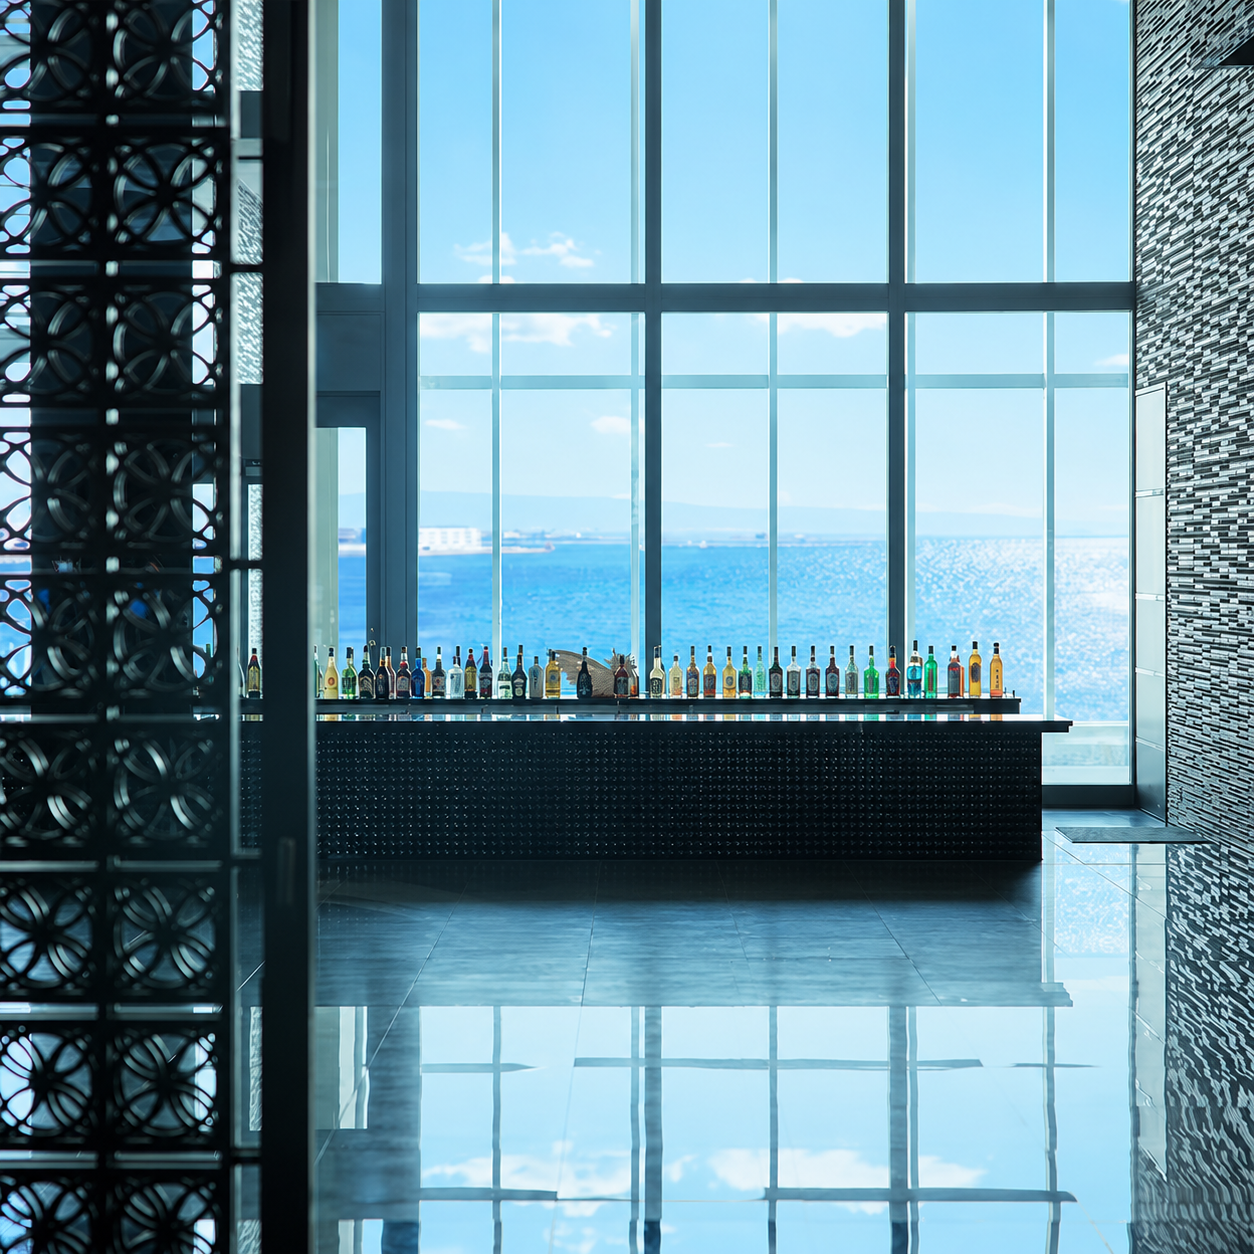
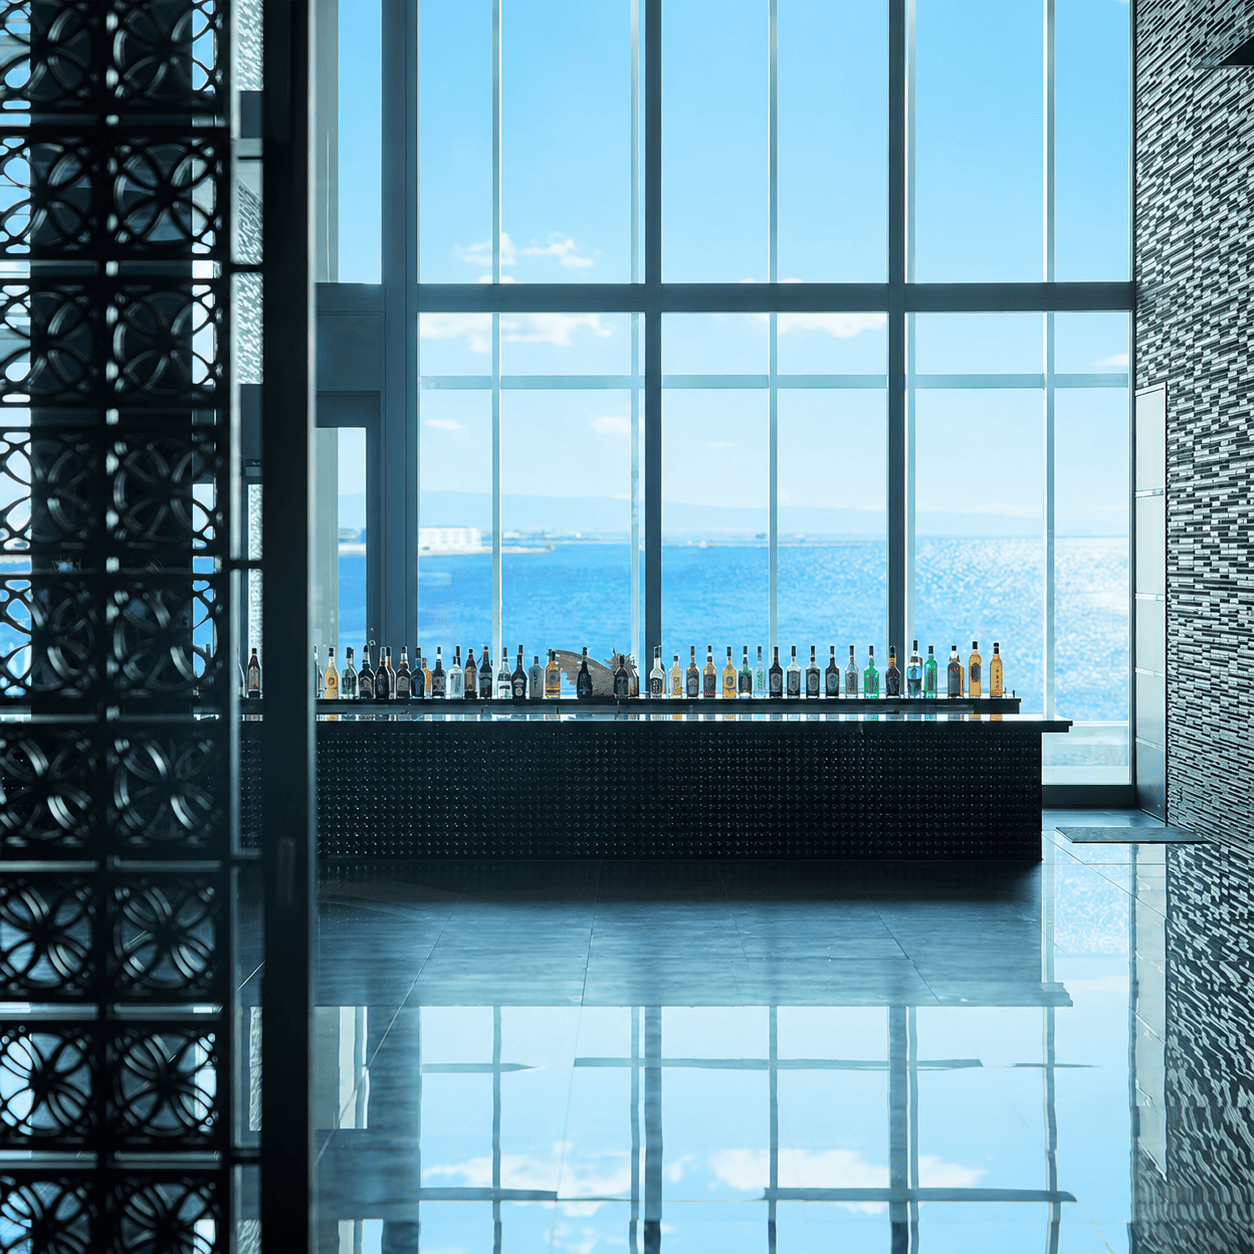
add searchAddress

diff --git a/rsvp.html b/rsvp.html
@@ -14,7 +14,7 @@
     </head>
 
     <body>
-        <form id="rsvpForm">
+        <form id="rsvpForm"  class="h-adr">
             <section class="rsvp">
                 
                 <a href="index.html" id="backLink" class="back-link">
@@ -81,55 +81,33 @@
                     <option>Other</option>
                 </select>
                 
-                <label>住まい</label>
-                <select name="address">
-                    <option>大阪府</option>
-                    <option>愛知県</option>
-                    <option>東京都</option>
-                    <option>北海道</option>
-                    <option>青森県</option>
-                    <option>岩手県</option>
-                    <option>宮城県</option>
-                    <option>秋田県</option>
-                    <option>山形県</option>
-                    <option>福島県</option>
-                    <option>茨城県</option>
-                    <option>栃木県</option>
-                    <option>群馬県</option>
-                    <option>千葉県</option>
-                    <option>神奈川県</option>
-                    <option>新潟県</option>
-                    <option>富山県</option>
-                    <option>石川県</option>
-                    <option>福井県</option>
-                    <option>山梨県</option>
-                    <option>長野県</option>
-                    <option>岐阜県</option>
-                    <option>静岡県</option>
-                    <option>三重県</option>
-                    <option>滋賀県</option>
-                    <option>京都府</option>
-                    <option>兵庫県</option>
-                    <option>奈良県</option>
-                    <option>和歌山県</option>
-                    <option>鳥取県</option>
-                    <option>島根県</option>
-                    <option>岡山県</option>
-                    <option>広島県</option>
-                    <option>山口県</option>
-                    <option>徳島県</option>
-                    <option>香川県</option>
-                    <option>愛媛県</option>
-                    <option>高知県</option>
-                    <option>福岡県</option>
-                    <option>佐賀県</option>
-                    <option>長崎県</option>
-                    <option>熊本県</option>
-                    <option>大分県</option>
-                    <option>宮崎県</option>
-                    <option>鹿児島県</option>
-                    <option>沖縄県</option>
-                </select>
+                <span class="p-country-name" style="display:none;">Japan</span>
+                <label>郵便番号</label>
+                <div class="postal-row">
+                    <input
+                        type="text"
+                        id="postalCode"
+                        placeholder="650-0046">
+
+                    <button type="button" id="searchAddress"  class="search-btn">
+                        住所検索
+                    </button>
+                </div>
+
+                
+                <label>住所（都道府県・市区町村）</label>
+                <input
+                    type="text"
+                    id="address"
+                    name="address"
+                    placeholder="住所">
+
+                <label>住所（番地以降）</label>
+                <input
+                    type="text"
+                    id="building"
+                    name="building"
+                    placeholder="建物名">
 
 
                 <label>アレルギー</label>
@@ -155,55 +133,33 @@
                     <label>同伴者アレルギー</label>
                     <textarea rows="3" name="compAllergy"></textarea>
 
-                    <label>住まい</label>
-                    <select name="compAddress">
-                        <option>大阪府</option>
-                        <option>愛知県</option>
-                        <option>東京都</option>
-                        <option>北海道</option>
-                        <option>青森県</option>
-                        <option>岩手県</option>
-                        <option>宮城県</option>
-                        <option>秋田県</option>
-                        <option>山形県</option>
-                        <option>福島県</option>
-                        <option>茨城県</option>
-                        <option>栃木県</option>
-                        <option>群馬県</option>
-                        <option>千葉県</option>
-                        <option>神奈川県</option>
-                        <option>新潟県</option>
-                        <option>富山県</option>
-                        <option>石川県</option>
-                        <option>福井県</option>
-                        <option>山梨県</option>
-                        <option>長野県</option>
-                        <option>岐阜県</option>
-                        <option>静岡県</option>
-                        <option>三重県</option>
-                        <option>滋賀県</option>
-                        <option>京都府</option>
-                        <option>兵庫県</option>
-                        <option>奈良県</option>
-                        <option>和歌山県</option>
-                        <option>鳥取県</option>
-                        <option>島根県</option>
-                        <option>岡山県</option>
-                        <option>広島県</option>
-                        <option>山口県</option>
-                        <option>徳島県</option>
-                        <option>香川県</option>
-                        <option>愛媛県</option>
-                        <option>高知県</option>
-                        <option>福岡県</option>
-                        <option>佐賀県</option>
-                        <option>長崎県</option>
-                        <option>熊本県</option>
-                        <option>大分県</option>
-                        <option>宮崎県</option>
-                        <option>鹿児島県</option>
-                        <option>沖縄県</option>
-                    </select>
+                    <span class="p-country-name" style="display:none;">Japan</span>
+                    <label>郵便番号</label>
+                    <div class="postal-row">
+                        <input
+                            type="text"
+                            id="compPostalCode"
+                            placeholder="650-0046">
+
+                        <button type="button" id="compSearchAddress"  class="search-btn">
+                            住所検索
+                        </button>
+                    </div>
+
+                    
+                    <label>住所（都道府県・市区町村）</label>
+                    <input
+                        type="text"
+                        id="compAddress"
+                        name="address"
+                        placeholder="住所">
+
+                    <label>住所（番地以降）</label>
+                    <input
+                        type="text"
+                        id="compBuilding"
+                        name="building"
+                        placeholder="建物名">
                 </div>
 
                 <label>備考</label>
@@ -213,7 +169,7 @@
                 <textarea rows="5" name="Message"></textarea>
 
                 
-                <button type="submit" id="submitButton">
+                <button type="submit" id="submitButton" class="submit-btn">
                     回答する
                 </button>
 

diff --git a/js/rsvp.js b/js/rsvp.js
@@ -53,3 +53,58 @@ backLink.addEventListener("click", (e) => {
         e.preventDefault();
     }
 });
+
+
+
+//郵便番号検索
+const searchButton = document.getElementById("searchAddress");
+const compSearchButton = document.getElementById("compSearchAddress");
+
+//参加者住所
+searchButton.addEventListener("click", async () => {
+    const postalCode = document.getElementById("postalCode");
+    const address = document.getElementById("address");
+    searchAddress(postalCode, address);
+});
+
+//同伴者住所
+compSearchButton.addEventListener("click", async () => {
+    const postalCode = document.getElementById("compPostalCode");
+    const address = document.getElementById("compAddress");
+    searchAddress(postalCode, address);
+});
+
+
+async function searchAddress(postalCode, address){
+
+    // ハイフン,スペースを除去
+    const zip = postalCode.value.replace(/\D/g, "");
+
+    if (zip.length !== 7) {
+        alert("郵便番号は7桁で入力してください。");
+        return;
+    }
+
+    try {
+        const response = await fetch(
+            `https://zipcloud.ibsnet.co.jp/api/search?zipcode=${zip}`
+        );
+
+        const data = await response.json();
+
+        if (data.results) {
+            const result = data.results[0];
+
+            address.value =
+                result.address1 +
+                result.address2 +
+                result.address3;
+        } else {
+            alert("住所が見つかりませんでした。");
+        }
+
+    } catch (err) {
+        console.error(err);
+        alert("住所検索に失敗しました。");
+    }
+};

diff --git a/css/rsvp.css b/css/rsvp.css
@@ -93,8 +93,7 @@ select:focus{
     font-weight: normal;
 }
 
-
-button{
+.submit-btn{
     width:100%;
     margin-top: 40px;
     padding: 15px;
@@ -126,5 +125,21 @@ button{
     display:none;
 }
 
+.postal-row{
+    display: flex;
+    gap: 10px;
+    align-items: center;
+}
 
+.postal-row input{
+    flex: 1;
+    width: auto;
+}
 
+.search-btn{
+    width:auto;
+    padding:10px 16px;
+    border-radius:8px;
+    font-size:14px;
+    cursor:pointer;
+}
